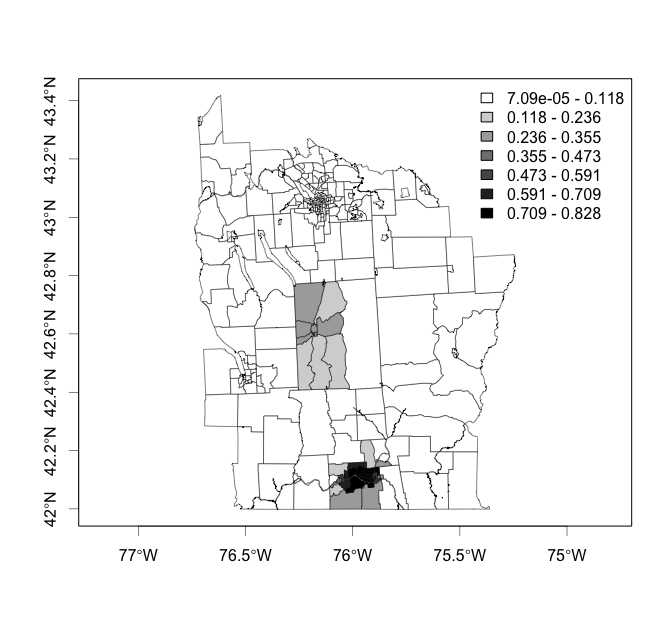
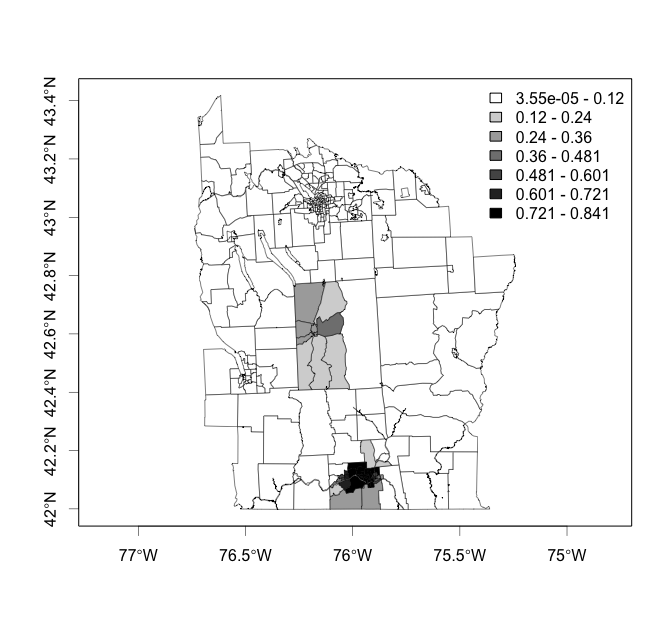
Switch from travis to GitHub Actions

Changed region(s): [[0.7188, 0.1218, 0.9375, 0.3654], [0.4688, 0.7308, 0.5938, 0.7612], [0.4688, 0.4872, 0.5312, 0.5481]]

diff --git a/README.md b/README.md
@@ -1,14 +1,16 @@
 
 <!-- README.md is generated from README.Rmd. Please edit that file -->
-SpatialEpi
-==========
 
-[![Travis-CI Build Status](https://travis-ci.org/rudeboybert/SpatialEpi.svg?branch=master)](https://travis-ci.org/rudeboybert/SpatialEpi) [![CRAN\_Status\_Badge](http://www.r-pkg.org/badges/version/SpatialEpi)](http://cran.r-project.org/package=SpatialEpi) [![CRAN RStudio mirror downloads](http://cranlogs.r-pkg.org/badges/SpatialEpi)](http://www.r-pkg.org/pkg/SpatialEpi)
+# SpatialEpi
+
+[![R-CMD-check](https://github.com/rudeboybert/SpatialEpi/workflows/R-CMD-check/badge.svg)](https://github.com/rudeboybert/SpatialEpi/actions)
+[![CRAN\_Status\_Badge](http://www.r-pkg.org/badges/version/SpatialEpi)](http://cran.r-project.org/package=SpatialEpi)
+[![CRAN RStudio mirror
+downloads](http://cranlogs.r-pkg.org/badges/SpatialEpi)](http://www.r-pkg.org/pkg/SpatialEpi)
 
 Package of data and methods for spatial epidemiology.
 
-Installation
-------------
+## Installation
 
 Get the released version from CRAN:
 
@@ -24,10 +26,13 @@ Or the development version from GitHub:
 devtools::install_github("rudeboybert/SpatialEpi")
 ```
 
-Example
--------
+Note: You may need to install the `cpp11` for all C++ code to compile
+correctly.
 
-We load the data and convert the coordinate system from latitude/longitude to a grid-based system.
+## Example
+
+We load the data and convert the coordinate system from
+latitude/longitude to a grid-based system.
 
 ``` r
 library(SpatialEpi)
@@ -48,9 +53,10 @@ plotmap(cases/population, sp.obj, log=TRUE, nclr=5)
 points(grid2latlong(centroids), pch=4)
 ```
 
-![](README_figure/README-unnamed-chunk-6-1.png)
+![](README_figure/README-unnamed-chunk-6-1.png)<!-- -->
 
-We run the Bayesian Cluster Detection method from [Wakefield and Kim (2013)](https://www.researchgate.net/publication/235896508_A_Bayesian_model_for_cluster_detection)
+We run the Bayesian Cluster Detection method from [Wakefield and Kim
+(2013)](https://www.researchgate.net/publication/235896508_A_Bayesian_model_for_cluster_detection):
 
 ``` r
 y <- cases
@@ -68,14 +74,17 @@ n.sim.post <- 10^5
 output <- bayes_cluster(y, E, population, sp.obj, centroids, max.prop,
                         shape, rate, J, pi0, n.sim.lambda, n.sim.prior,
                         n.sim.post)
-#> [1] "Algorithm started on: Sat Aug 20 11:35:52 2016"
-#> [1] "Importance sampling of lambda complete on: Sat Aug 20 11:36:28 2016"
-#> [1] "Prior map MCMC complete on: Sat Aug 20 11:42:45 2016"
-#> [1] "Posterior estimation complete on: Sat Aug 20 11:53:11 2016"
+#> [1] "Algorithm started on: Thu Jun 10 16:38:10 2021"
+#> [1] "Importance sampling of lambda complete on: Thu Jun 10 16:39:11 2021"
+#> [1] "Prior map MCMC complete on: Thu Jun 10 16:43:03 2021"
+#> [1] "Posterior estimation complete on: Thu Jun 10 16:56:47 2021"
 ```
 
 ``` r
-plotmap(output$post_map$high_area, sp.obj)
+plotmap(output$post.map$high.area, sp.obj)
+#> Warning in wkt(obj): CRS object has no comment
+
+#> Warning in wkt(obj): CRS object has no comment
 ```
 
-![](README_figure/README-unnamed-chunk-7-1.png)
+![](README_figure/README-unnamed-chunk-7-1.png)<!-- -->
